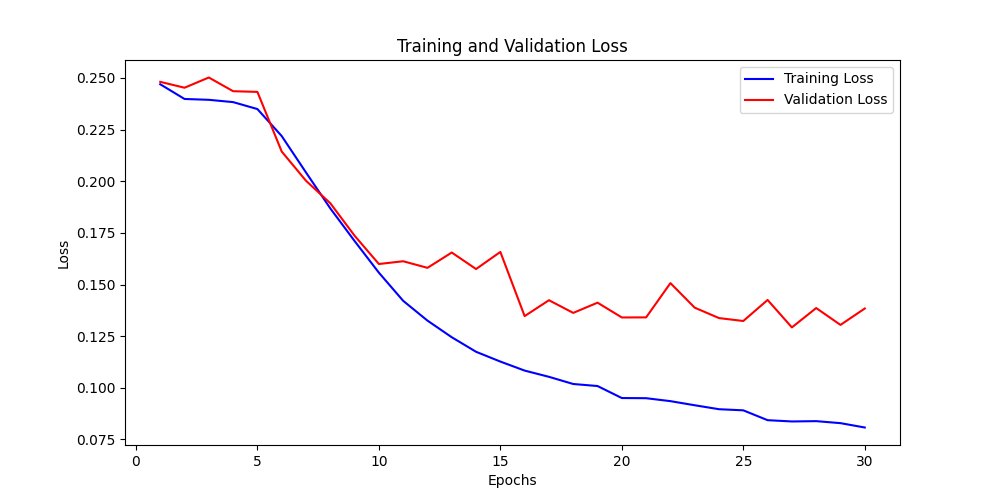
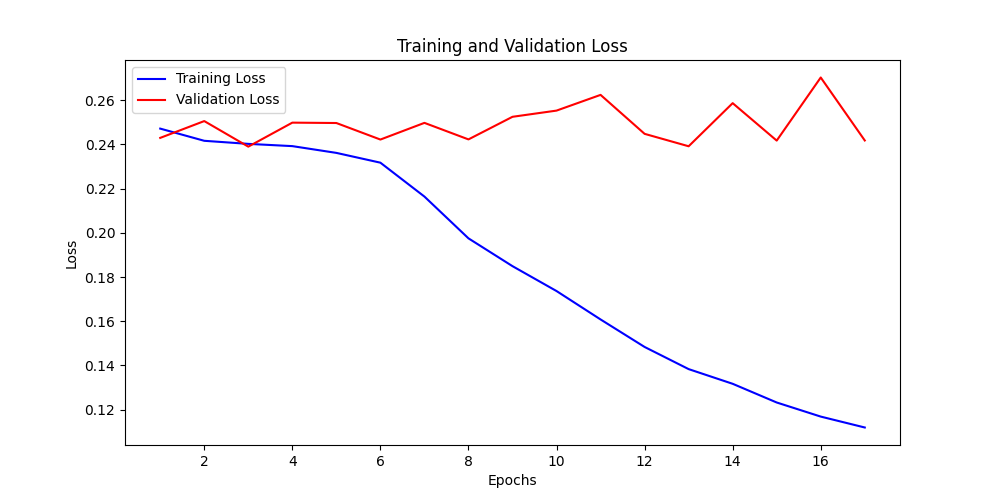
temporal split

diff --git a/train.py b/train.py
@@ -5,8 +5,7 @@ import os
 import torch
 import torch.nn as nn
 import torch.optim as optim
-from torch.utils.data import Dataset, DataLoader, random_split, Subset
-from sklearn.model_selection import train_test_split
+from torch.utils.data import Dataset, DataLoader, Subset
 
 import pandas as pd
 import cv2
@@ -30,8 +29,10 @@ class ToTensorRGB(object):
         return torch.from_numpy(image.transpose((2, 0, 1))).float() / 255.0
 
 class EyeTrackerDataset(Dataset):
-    def __init__(self, csv_file, transform=None):
+    def __init__(self, csv_file, transform=None, keep_every = 0):
         self.data = pd.read_csv(csv_file)
+        if keep_every :
+            self.data = self.data.iloc[::keep_every].reset_index(drop=True)
         self.transform = transform
         
     def __len__(self):
@@ -52,7 +53,7 @@ class EyeTrackerDataset(Dataset):
         
         return image, coordinates
 
-def train(model, train_loader, val_loader, criterion, optimizer, num_epochs, device, save_path, patience):
+def train(model, train_loader, val_loader, criterion, optimizer, num_epochs, device, save_path, patience):#
     model.to(device)
     best_val_loss = float('inf')
     train_losses = []
@@ -297,65 +298,20 @@ def main():
         transforms.Normalize(mean=[0.485, 0.456, 0.406], std=[0.229, 0.224, 0.225])
     ])
     
-    # Create dataset
-    full_dataset = EyeTrackerDataset(csv_file="augmented_dataset.csv", transform=transform)
-    
-    # Check if dataset is not empty
+    full_dataset = EyeTrackerDataset(csv_file="augmented_dataset.csv", transform=transform, keep_every=0)
+
     if len(full_dataset) == 0:
         raise ValueError("Dataset is empty. Please run dataset_generator.py first.")
-    
-    # Create train and validation datasets using temporal split to avoid data leakage
-    # Since images are taken at 100ms intervals, we need to split by time ranges
-    # Use 20 validation ranges of 0.5% each, distributed throughout the dataset
+
     total_size = len(full_dataset)
-    val_range_size = int(0.005 * total_size)  # 0.5% of dataset per validation range
-    
-    # Create 20 validation ranges distributed throughout the dataset
-    val_indices = []
-    train_indices = []
-    
-    for i in range(20):
-        # Calculate start and end indices for this validation range
-        start_idx = i * (total_size // 20) + (i * val_range_size // 20)
-        end_idx = start_idx + val_range_size
-        
-        # Ensure we don't exceed dataset bounds
-        end_idx = min(end_idx, total_size)
-        
-        # Add validation indices for this range
-        val_indices.extend(range(start_idx, end_idx))
-    
-    # Create train indices (all indices not in validation)
-    val_set = set(val_indices)
-    train_indices = [i for i in range(total_size) if i not in val_set]
-    
-    # Create subset datasets
+    train_size = int(0.9 * total_size)
+
+    train_indices = list(range(train_size))
+    val_indices = list(range(train_size, total_size))
+
     train_dataset = Subset(full_dataset, train_indices)
     val_dataset = Subset(full_dataset, val_indices)
 
-    # Print dataset size and temporal information
-    print(f"Train dataset size: {len(train_dataset)}")
-    print(f"Validation dataset size: {len(val_dataset)}")
-    print(f"Number of validation ranges: 20 (0.5% each)")
-    
-    # Print temporal range information for verification
-    val_ranges = []
-    for i in range(20):
-        start_idx = i * (total_size // 20) + (i * val_range_size // 20)
-        end_idx = min(start_idx + val_range_size, total_size)
-        if start_idx < total_size:
-            val_first_img = full_dataset.data.iloc[start_idx, 0]
-            val_last_img = full_dataset.data.iloc[end_idx-1, 0]
-            val_ranges.append(f"Range {i+1}: {val_first_img} to {val_last_img}")
-    
-    print("Validation temporal ranges (first 10 and last 10):")
-    for i in range(0, 10):
-        print(f"  {val_ranges[i]}")
-    print("  ...")
-    for i in range(10, 20):
-        print(f"  {val_ranges[i]}")
-    
-    # Create data loaders - set num_workers=0 to avoid multiprocessing issues
     train_loader = DataLoader(train_dataset, batch_size=32, shuffle=True, num_workers=0)
     val_loader = DataLoader(val_dataset, batch_size=32, shuffle=False, num_workers=0)
     

diff --git a/model.py b/model.py
@@ -5,16 +5,8 @@ import torch.nn.functional as F
 class Model(nn.Module):
     def __init__(self):
         super().__init__()
-        # Spatial gating map per channel in [0,1]
-        self.heatmap = nn.Sequential(
-            nn.Conv2d(3, 16, kernel_size=5, stride=1, padding=2),
-            nn.ReLU(),
-            nn.Conv2d(16, 1, kernel_size=5, stride=1, padding=2),
-            nn.Sigmoid()
-        )
-
         self.pass_1 = nn.Sequential( 
-            nn.Conv2d(4, 16, kernel_size=3, stride=1, padding=1),  # 224x224x4 -> 224x224x16
+            nn.Conv2d(3, 16, kernel_size=3, stride=1, padding=1),  # 224x224x4 -> 224x224x16
             nn.ReLU(),
             nn.MaxPool2d(kernel_size=2, stride=2),                  # -> 112x112x16
         )
@@ -55,8 +47,6 @@ class Model(nn.Module):
         )
     
     def forward(self, x):
-        h = self.heatmap(x)         # (N,3,H,W) in [0,1]
-        x = torch.cat([x, h], dim=1)
         x = self.pass_1(x)
         x = self.pass_2(x)
         x = self.pass_3(x)
